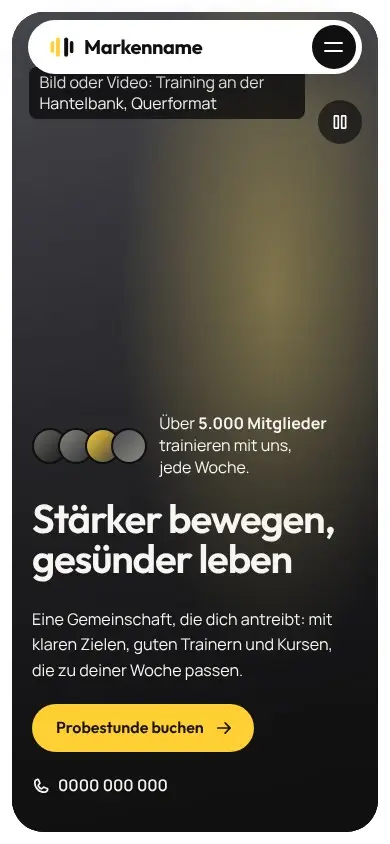
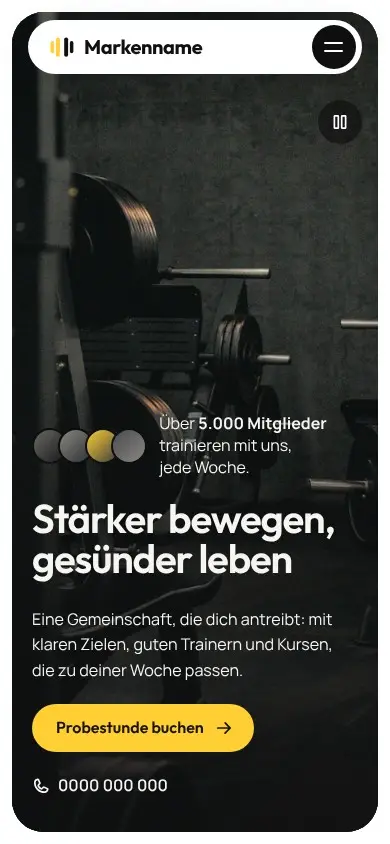
Bibliothek t57: Beispielfotos (Unsplash) eingebaut, Vorschaubilder neu erzeugt
Claude-Session: https://claude.ai/code/session_01DoGuL1bwF3ewggMgZ4Cpvd

diff --git a/skills/webdesign-conversion/assets/vorlagen/bibliothek/t57/index.html b/skills/webdesign-conversion/assets/vorlagen/bibliothek/t57/index.html
@@ -50,7 +50,7 @@
   <!-- 1. Held: eingerückte Bildkarte, Überschrift unten links, Text und Knopf unten rechts -->
   <section class="held" id="top" aria-labelledby="h-held">
     <div class="held__karte">
-      <div class="bild held__bild bild--a" id="held-bild" data-platzhalter="Bild oder Video: Training an der Hantelbank, Querformat" role="img" aria-label="Platzhalter für ein Video vom Training an der Hantelbank"></div>
+      <div class="bild held__bild bild--a" id="held-bild"><img src="bilder/hantelrack-fitnessstudio.webp" width="1600" height="1067" decoding="async" alt="Hantelrack mit Scheiben in einem dunklen Fitnessstudio, im Hintergrund eine sitzende Person"></div>
       <div class="held__schleier" aria-hidden="true"></div>
       <div class="held__innen">
         <div class="held__links">
@@ -75,17 +75,17 @@
       </div>
       <div class="ueber__karten" data-staffel data-beispiel>
         <div class="spalte spalte--1">
-          <div class="bild bild--b" data-zeig data-platzhalter="Bild: Latzug am Gerät" role="img" aria-label="Platzhalter für ein Foto vom Latzug am Gerät"></div>
+          <div class="bild bild--b" data-zeig><img src="bilder/latzug-rueckansicht.webp" width="1000" height="776" loading="lazy" decoding="async" alt="Frau am Latzug, von hinten gesehen"></div>
           <article class="textkarte" data-zeig><span class="textkarte__icon" aria-hidden="true"><svg width="20" height="20" aria-hidden="true" focusable="false"><use href="#i-gruppe"/></svg></span><h3>Gemeinschaft zuerst</h3><p>Dein Weg ist auch unserer. Wir begleiten dich Schritt für Schritt mit Ermutigung und gemeinsamen Zielen.</p></article>
         </div>
         <div class="spalte spalte--2">
           <article class="textkarte" data-zeig><span class="textkarte__icon" aria-hidden="true"><svg width="20" height="20" aria-hidden="true" focusable="false"><use href="#i-ziel"/></svg></span><h3>Fortschritt, nicht Perfektion</h3><p>Jeder kleine Schritt zählt, auch wenn er klein wirkt. Echtes Wachstum braucht Geduld und Selbstachtung.</p></article>
-          <div class="bild bild--c" data-zeig data-platzhalter="Bild: Klimmzug in der Halle, Hochformat" role="img" aria-label="Platzhalter für ein Foto eines Klimmzugs in der Halle"></div>
+          <div class="bild bild--c" data-zeig><img src="bilder/klimmzug-halle.webp" width="800" height="1035" loading="lazy" decoding="async" alt="Mann hält sich in einer Trainingshalle an einer Stange"></div>
         </div>
         <div class="spalte spalte--3">
-          <div class="bild bild--d" data-zeig data-platzhalter="Bild: Zwei Trainierende an der Langhantel" role="img" aria-label="Platzhalter für ein Foto von zwei Trainierenden an der Langhantel"></div>
+          <div class="bild bild--d" data-zeig><img src="bilder/training-an-den-baenken.webp" width="1000" height="667" loading="lazy" decoding="async" alt="Trainierende an Hantelbänken in einem hellen Studio"></div>
           <article class="textkarte" data-zeig><span class="textkarte__icon" aria-hidden="true"><svg width="20" height="20" aria-hidden="true" focusable="false"><use href="#i-herz"/></svg></span><h3>Bewegung mit Respekt</h3><p>Wir trainieren sicher und wirksam, mit Achtung vor deinem Körper, deinen Grenzen und deinen Bedürfnissen.</p></article>
-          <div class="bild bild--a ueber__mini" data-zeig data-platzhalter="Bild: Laufband" aria-hidden="true"></div>
+          <div class="bild bild--a ueber__mini" data-zeig><img src="bilder/laufbaender-reihe.webp" width="600" height="400" loading="lazy" decoding="async" alt=""></div>
         </div>
       </div>
     </div>
@@ -98,7 +98,7 @@
         <div><p class="kicker" data-zeig>Kurse</p><h2 id="h-kurse" data-zeig>Finde deinen Kurs, auf deine Art</h2></div>
         <div data-zeig><a class="knopf knopf--dunkel" href="#kurse">Alle Kurse<svg width="18" height="18" aria-hidden="true" focusable="false"><use href="#i-pfeil"/></svg></a></div>
       </div>
-      <ul class="kurse__liste" data-staffel data-beispiel><li data-zeig><a class="kurs" href="#kurse"><span class="kurs__tag">Alle Level</span><h3>Intervalltraining</h3><p>Kurze, intensive Einheiten, die in wenig Zeit viel bewirken. Mit Pausen, die zum Atmen reichen.</p><span class="bild bild--a kurs__bild" data-platzhalter="Bild: Intervalltraining" aria-hidden="true"></span><span class="kurs__pfeil" aria-hidden="true"><svg width="20" height="20" aria-hidden="true" focusable="false"><use href="#i-hoch"/></svg></span></a></li><li data-zeig><a class="kurs" href="#kurse"><span class="kurs__tag">Mittel</span><h3>Rumpfkraft</h3><p>Stärke deine Körpermitte, formiere die Haltung und baue Stabilität für alles andere auf.</p><span class="bild bild--c kurs__bild" data-platzhalter="Bild: Rumpfkraft" aria-hidden="true"></span><span class="kurs__pfeil" aria-hidden="true"><svg width="20" height="20" aria-hidden="true" focusable="false"><use href="#i-hoch"/></svg></span></a></li><li data-zeig><a class="kurs" href="#kurse"><span class="kurs__tag">Alle Level</span><h3>Fluss und Dehnung</h3><p>Beweglichkeit, Balance und Kontrolle durch ruhige Bewegung im Rhythmus des Atems.</p><span class="bild bild--b kurs__bild" data-platzhalter="Bild: Fluss und Dehnung" aria-hidden="true"></span><span class="kurs__pfeil" aria-hidden="true"><svg width="20" height="20" aria-hidden="true" focusable="false"><use href="#i-hoch"/></svg></span></a></li><li data-zeig><a class="kurs" href="#kurse"><span class="kurs__tag">Mittel</span><h3>Boxen und Kondition</h3><p>Kraft, Ausdauer und Koordination an Sack und Pratze, mit Technik von Anfang an.</p><span class="bild bild--d kurs__bild" data-platzhalter="Bild: Boxen und Kondition" aria-hidden="true"></span><span class="kurs__pfeil" aria-hidden="true"><svg width="20" height="20" aria-hidden="true" focusable="false"><use href="#i-hoch"/></svg></span></a></li></ul>
+      <ul class="kurse__liste" data-staffel data-beispiel><li data-zeig><a class="kurs" href="#kurse"><span class="kurs__tag">Alle Level</span><h3>Intervalltraining</h3><p>Kurze, intensive Einheiten, die in wenig Zeit viel bewirken. Mit Pausen, die zum Atmen reichen.</p><span class="bild bild--a kurs__bild"><img src="bilder/lauftraining-gruppe.webp" width="800" height="533" loading="lazy" decoding="async" alt=""></span><span class="kurs__pfeil" aria-hidden="true"><svg width="20" height="20" aria-hidden="true" focusable="false"><use href="#i-hoch"/></svg></span></a></li><li data-zeig><a class="kurs" href="#kurse"><span class="kurs__tag">Mittel</span><h3>Rumpfkraft</h3><p>Stärke deine Körpermitte, formiere die Haltung und baue Stabilität für alles andere auf.</p><span class="bild bild--c kurs__bild"><img src="bilder/liegestuetz-holzboden.webp" width="800" height="600" loading="lazy" decoding="async" alt=""></span><span class="kurs__pfeil" aria-hidden="true"><svg width="20" height="20" aria-hidden="true" focusable="false"><use href="#i-hoch"/></svg></span></a></li><li data-zeig><a class="kurs" href="#kurse"><span class="kurs__tag">Alle Level</span><h3>Fluss und Dehnung</h3><p>Beweglichkeit, Balance und Kontrolle durch ruhige Bewegung im Rhythmus des Atems.</p><span class="bild bild--b kurs__bild"><img src="bilder/dehnung-yoga.webp" width="800" height="587" loading="lazy" decoding="async" alt=""></span><span class="kurs__pfeil" aria-hidden="true"><svg width="20" height="20" aria-hidden="true" focusable="false"><use href="#i-hoch"/></svg></span></a></li><li data-zeig><a class="kurs" href="#kurse"><span class="kurs__tag">Mittel</span><h3>Boxen und Kondition</h3><p>Kraft, Ausdauer und Koordination an Sack und Pratze, mit Technik von Anfang an.</p><span class="bild bild--d kurs__bild"><img src="bilder/kampfseile-draussen.webp" width="800" height="534" loading="lazy" decoding="async" alt=""></span><span class="kurs__pfeil" aria-hidden="true"><svg width="20" height="20" aria-hidden="true" focusable="false"><use href="#i-hoch"/></svg></span></a></li></ul>
     </div>
   </section>
 
@@ -106,7 +106,7 @@
   <section class="film" id="film" aria-label="Ein Blick ins Studio" data-fortschritt>
     <div class="film__buehne">
       <div class="film__rahmen">
-        <div class="bild film__bild bild--b" data-platzhalter="Video: Rundgang durch das Studio, Querformat" role="img" aria-label="Platzhalter für ein Video mit einem Rundgang durch das Studio"></div>
+        <div class="bild film__bild bild--b"><img src="bilder/studio-hell-geraete.webp" width="1600" height="1067" loading="lazy" decoding="async" alt="Heller Trainingsraum mit Laufbändern und Rädern"></div>
         <span class="film__marke" aria-hidden="true"><svg width="22" height="22" aria-hidden="true" focusable="false"><use href="#i-play"/></svg></span>
       </div>
     </div>
@@ -133,7 +133,7 @@
   <section class="banner-wrap" aria-labelledby="h-banner">
     <div class="wrap">
       <div class="banner" data-zeig>
-        <div class="bild banner__bild bild--a" data-platzhalter="Bild: Athletin am Seilzug, Hochformat" aria-hidden="true"></div>
+        <div class="bild banner__bild bild--a"><img src="bilder/seilzug-rueckansicht.webp" width="800" height="1200" loading="lazy" decoding="async" alt=""></div>
         <div class="banner__text">
           <a class="logo logo--banner" href="#top" aria-label="Markenname, zur Startseite"><svg class="logo__zeichen" viewBox="0 0 32 32" aria-hidden="true" focusable="false"><rect x="3" y="9" width="4" height="14" rx="2" fill="var(--akzent)"/><rect x="9" y="5" width="4.5" height="22" rx="2.25" fill="var(--akzent)"/><rect x="18.5" y="5" width="4.5" height="22" rx="2.25" fill="currentColor"/><rect x="25" y="9" width="4" height="14" rx="2" fill="currentColor"/></svg><span>Markenname</span></a>
           <h2 id="h-banner">Formiere deinen Körper</h2>

diff --git a/skills/webdesign-conversion/assets/vorlagen/bibliothek/t57/stil.css b/skills/webdesign-conversion/assets/vorlagen/bibliothek/t57/stil.css
@@ -251,3 +251,7 @@ h3{font-size:clamp(1.2rem,1.05rem + .6vw,1.5rem);line-height:1.15}
 .news__meldung[hidden]{display:none}
 .fuss__unten{display:flex;flex-wrap:wrap;justify-content:space-between;gap:.5rem 2rem;margin-top:2.5rem;padding-top:1.25rem;border-top:1px solid var(--linie-dunkel)}
 @media (min-width:62rem){.fuss__oben{grid-template-columns:minmax(0,1.1fr) minmax(0,1fr) minmax(0,1.4fr);gap:3rem}}
+
+/* Beispielfotos */
+.held__bild img,.film__bild img,.banner__bild img{position:absolute;inset:0;width:100%;height:100%;object-fit:cover}
+.held__bild img{object-position:center 40%}

diff --git a/skills/webdesign-conversion/assets/vorlagen/bibliothek/t57/BILDER.md b/skills/webdesign-conversion/assets/vorlagen/bibliothek/t57/BILDER.md
@@ -1,0 +1,31 @@
+# Bilder t57
+
+Alle Fotos von Unsplash, abgerufen am 25.11.2026. Titel und Lizenz stehen so auf der Seite des Fotos (Titel von Unsplash automatisch vergeben), als Fotograf ist das Unsplash Profil angegeben, weil die Seite den Namen nur als Profillink zeigte. Lizenz ist jeweils die Unsplash Lizenz.
+
+| Datei | Platz | Foto Titel | Fotograf (Profil) | Seite | Lizenz | Abruf |
+|---|---|---|---|---|---|---|
+| hantelrack-fitnessstudio.webp | Held | Ein Mann sitzt mit einer Langhantel in einer Turnhalle | @kobe007 | https://unsplash.com/photos/-F0Wi89XZHI | Unsplash Lizenz | 25.11.2026 |
+| latzug-rueckansicht.webp | Über uns, Bild 1 | Frau trägt schwarzes ärmelloses Oberteil mit Fitnessgeräten | @fitnish | https://unsplash.com/photos/5zrPlR-5lP0 | Unsplash Lizenz | 25.11.2026 |
+| klimmzug-halle.webp | Über uns, Bild 2 (hoch) | Mann hält Stange in einem Fitnessstudio | @pjayth3kreator | https://unsplash.com/photos/ANLC8vwUP_g | Unsplash Lizenz | 25.11.2026 |
+| training-an-den-baenken.webp | Über uns, Bild 3 | Eine Gruppe von Menschen, die in einem Fitnessstudio trainieren | @goldsgymnepal | https://unsplash.com/photos/-8lajF7J8T0 | Unsplash Lizenz | 25.11.2026 |
+| laufbaender-reihe.webp | Über uns, Minibild | ein Fitnessraum mit Trainingsgeräten | @birkenwald | https://unsplash.com/photos/WmfcbtR2uuU | Unsplash Lizenz | 25.11.2026 |
+| lauftraining-gruppe.webp | Kurs Intervalltraining | Mann in schwarzem T-Shirt und schwarzen Shorts, der tagsüber auf der Straße läuft | @gabinvallet | https://unsplash.com/photos/J154nEkpzlQ | Unsplash Lizenz | 25.11.2026 |
+| liegestuetz-holzboden.webp | Kurs Rumpfkraft | Eine Frau, die einen Liegestütz auf einem Holzboden macht | @missgypsea | https://unsplash.com/photos/Lav4e5KK_fw | Unsplash Lizenz | 25.11.2026 |
+| dehnung-yoga.webp | Kurs Fluss und Dehnung | Frau in schwarzem Tanktop und schwarzer Hose beim Yoga | @matt909 | https://unsplash.com/photos/mSJsiQCm6og | Unsplash Lizenz | 25.11.2026 |
+| kampfseile-draussen.webp | Kurs Boxen und Kondition | Mann trainiert draußen mit Kampfseilen | @_karsten | https://unsplash.com/photos/0Wra5YYVQJE | Unsplash Lizenz | 25.11.2026 |
+| studio-hell-geraete.webp | Studio Rundgang | Modernes Fitnessstudio mit Laufbändern und Heimtrainern | @erandesign | https://unsplash.com/photos/X0rfCRWl690 | Unsplash Lizenz | 25.11.2026 |
+| seilzug-rueckansicht.webp | Banner | Frau in schwarzem Tanktop und schwarzer Leggings sitzt auf Trainingsgeräten | @sichpicsss | https://unsplash.com/photos/1cNqbX7XvRA | Unsplash Lizenz | 25.11.2026 |
+
+## Hinweise
+
+* Drei Fotos sind nicht genommen worden, weil auf ihren Seiten die Lizenz nicht als Unsplash Lizenz ausgewiesen war (Latzug, Seile, Studio), dafür andere Motive.
+* Die Fotos zeigen Menschen nur als Stimmung und stehen nicht für echte Mitglieder oder Coaches. Vor Abgabe durch eigene Fotos des Studios ersetzen.
+* Keine Versprechen zu Ergebnissen im Bild, die Bildtexte machen keine Aussage zu Erfolg oder Gesundheit.
+* Das Heldbild und das Studiobild sind Standbilder, ein Video oder Rundgang ist offen.
+* Kursbilder und Minibild sind dekorativ (`alt=""`).
+
+## Offen
+
+* Sechs Coach Porträts: Personen, bleiben offen, damit niemand als echte Person erscheint.
+* Karte "Paar beim gemeinsamen Training" (Hochformat, enthält Text): bleibt Platzhalter.
+* Video im Held und Studio Rundgang: Standbild statt Video.
